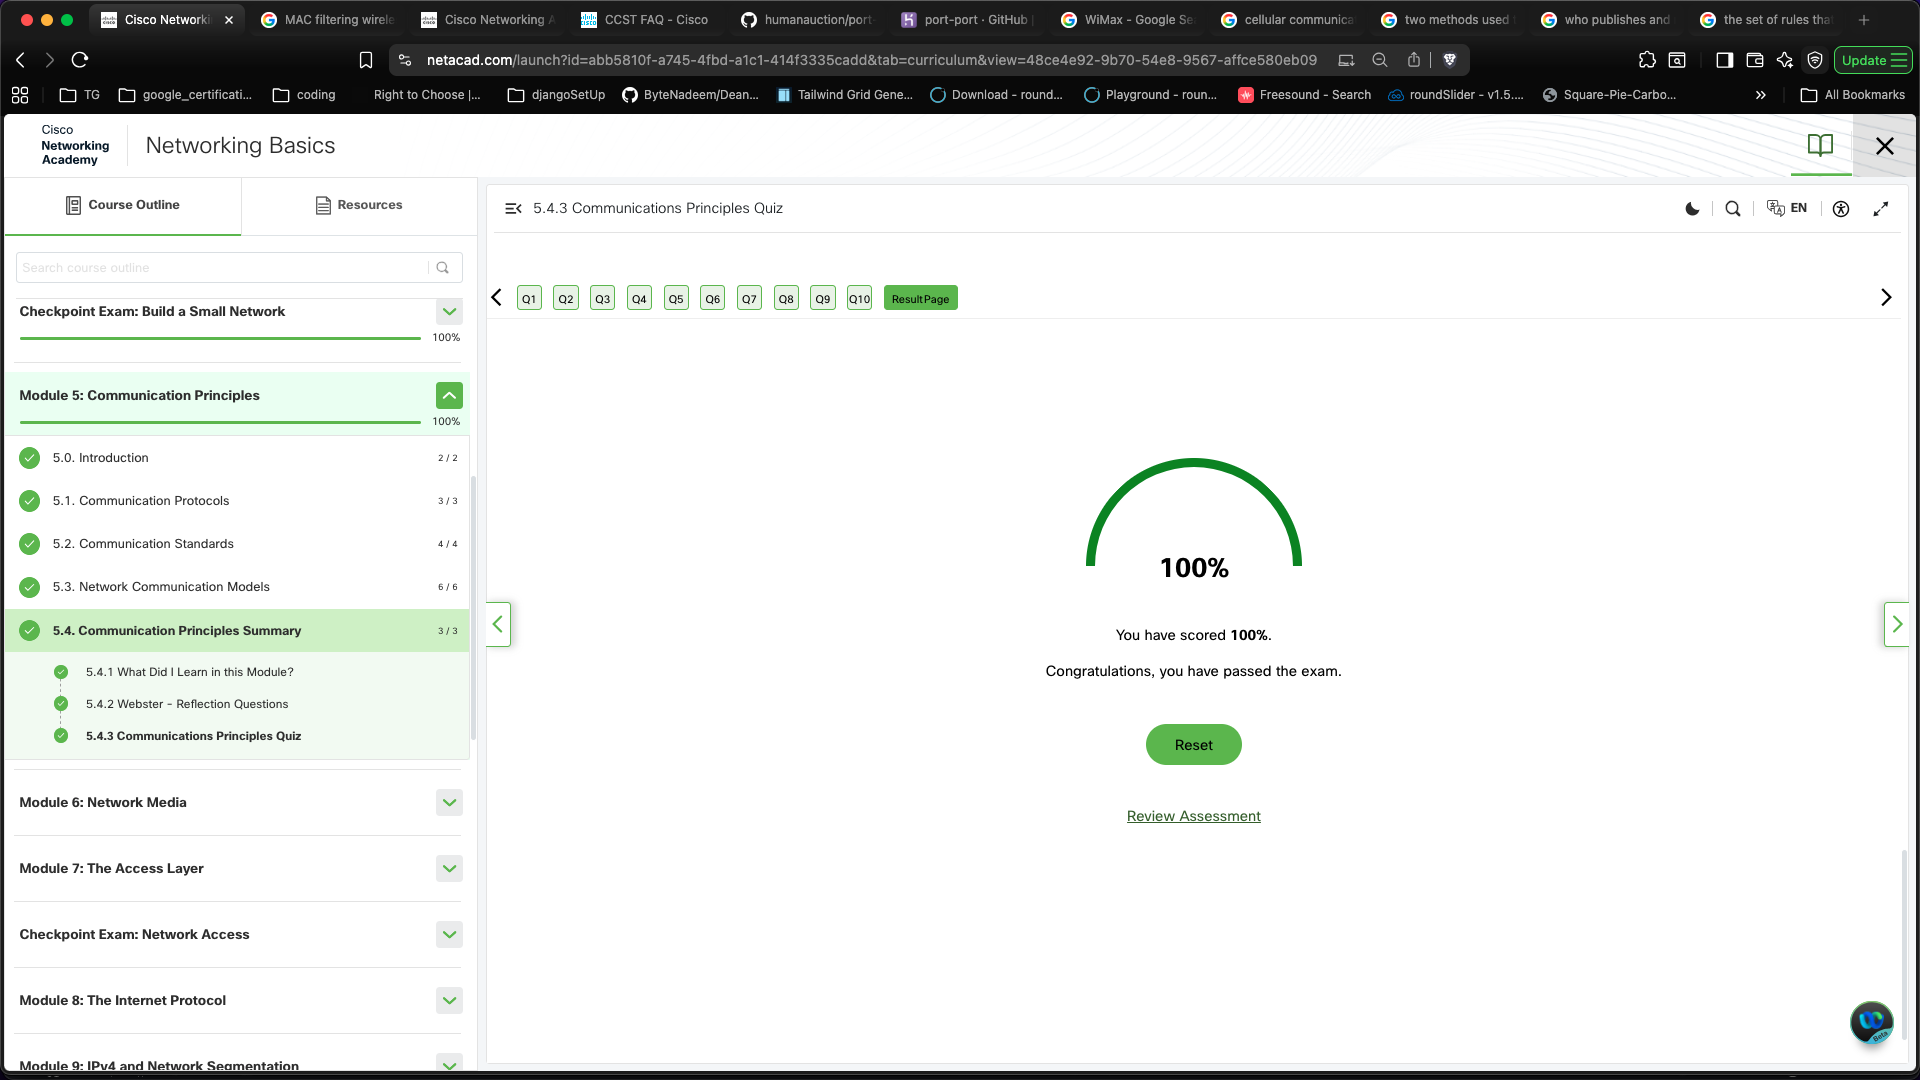
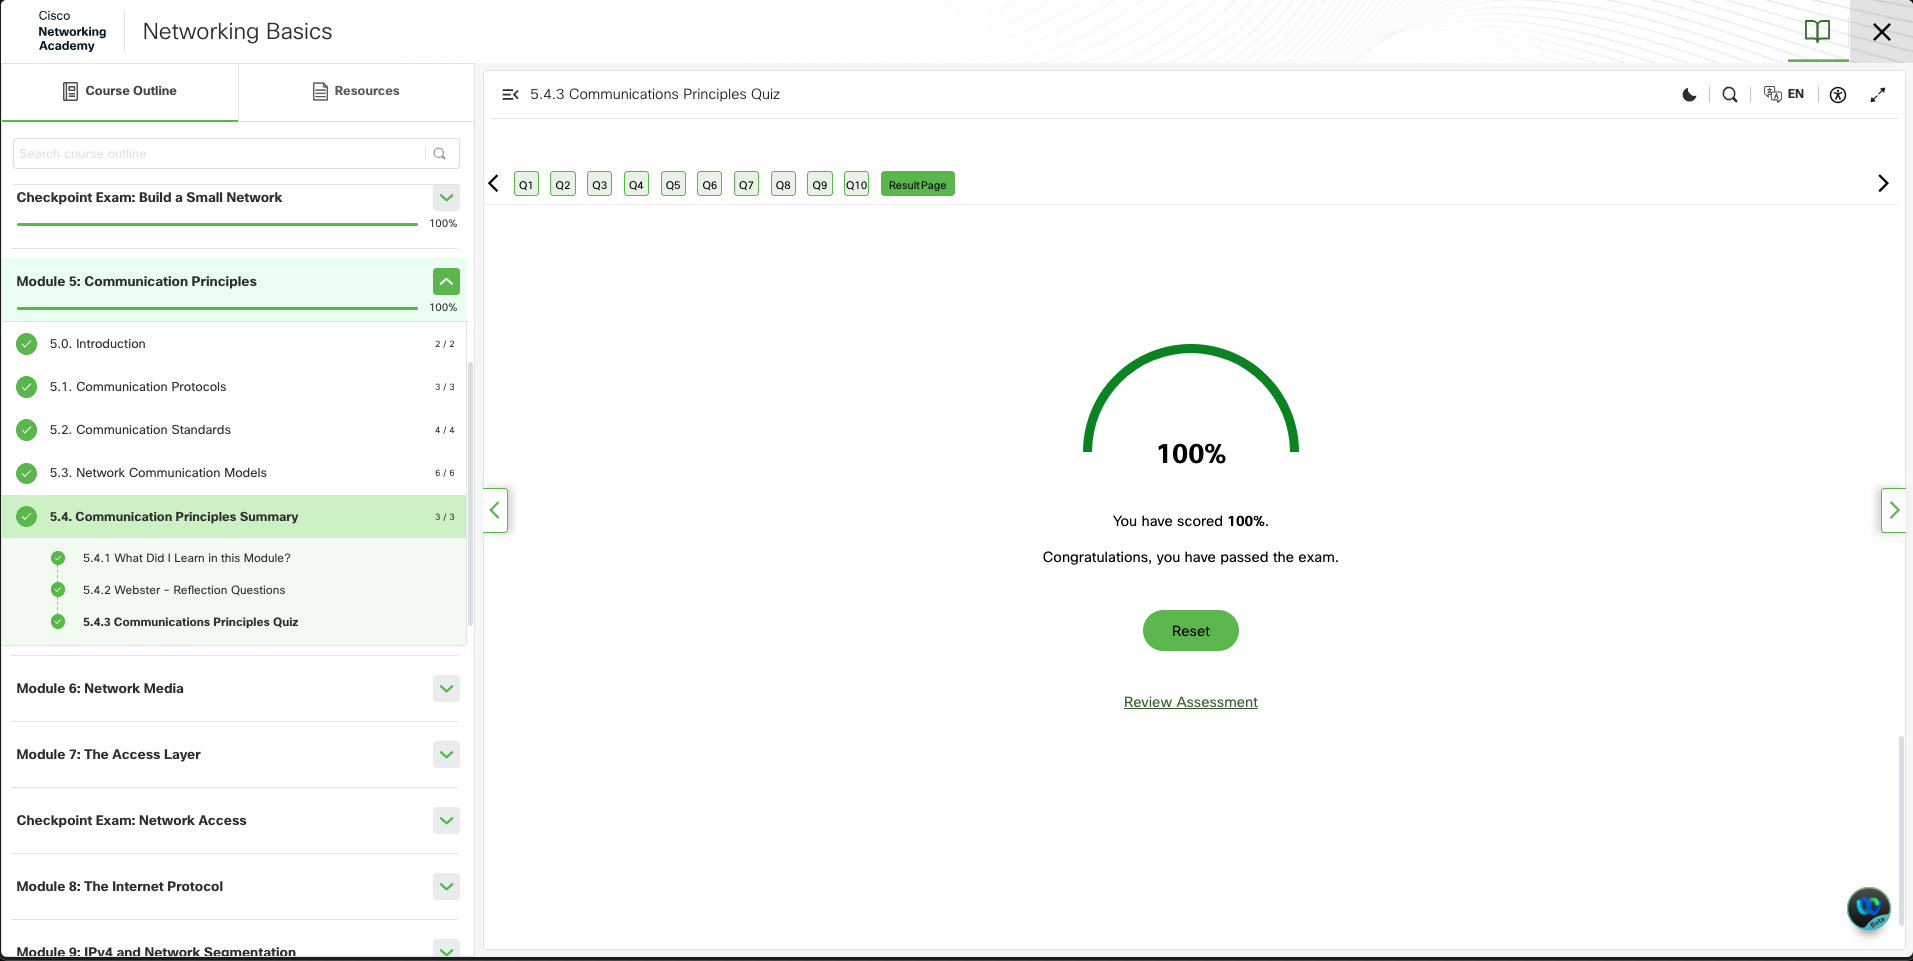
Complete: module7; Add: readme: status update.

diff --git a/readme.md b/readme.md
@@ -394,3 +394,33 @@ AS, Amount of Data: What is the amount of data and at what speed must it be tran
 C, Cost: What is the cost of the media and installation?
 
 <img src="networkingBasics/images/module6Pass.png" alt="module6Pass" height="240px">
+
+### Module 7: Access layer
+
+Learning objectives:
+Encapsualtion and the Ethernet frame
+Access Layer
+
+Ethernet Frame:
+Preamble - 7 bytes used for synchronization
+Start Frame Delimiter (SFD) - 1 byte used to indicate the start of the frame
+Destination MAC Address - 6 bytes used to identify the destination host
+Source MAC Address - 6 bytes used to identify the source host
+Length Type - 2 bytes used to indicate the protocol being encapsulated in the payload OR type of data IPv4, IPv6...
+Data Payload - 46 to 1500 bytes of data being transmitted
+Frame Check Sequence (FCS) - 4 bytes used for error checking
+
+Switches:
+like to learn. but only for about 5 mins.
+Ethernet Switches:
+802.3 Ethernet frame is used for communication between devices on the same network. The Ethernet frame contains a destination MAC address and a source MAC address, which are used to identify the devices that are communicating. When a switch receives an Ethernet frame, it reads the destination MAC address and forwards the frame only to the port that is connected to the device with that MAC address. This process is called switching, and it helps to reduce network congestion and improve performance by ensuring that frames are only sent to the devices that need them.
+MAC address tables:
+
+learning outcomes:
+Encapsulation and the Ethernet Frame: Encapsulation is the process of adding headers and trailers to data as it moves through the layers of a network protocol stack. This allows data to be transmitted across different types of networks and ensures that it is properly formatted for the receiving device. The Ethernet frame is a specific type of data packet used in Ethernet networks. It consists of several fields, including a preamble, start frame delimiter, destination MAC address, source MAC address, length/type field, data payload, and frame check sequence. Each of these fields serves a specific purpose in the encapsulation process, allowing data to be transmitted effectively and efficiently across an Ethernet network.
+
+Access layer: The access layer is the layer of a network that provides connectivity to end devices, e.g. computers, printers, and mobile devices. It is responsible for providing access to the network and ensuring that data is transmitted securely and efficiently between end devices and the rest of the network. The access layer typically includes switches, wireless access points, and other networking devices that connect end devices to the network infrastructure. The access layer also provides features e.g. authentication, authorization, and accounting (AAA) to ensure that only authorized users can access the network and that their activities are monitored and logged for security purposes.
+
+<img src="networkingBasics/images/module7Pass.png" alt="module7Pass" height="240px">
+
+### Module 8
